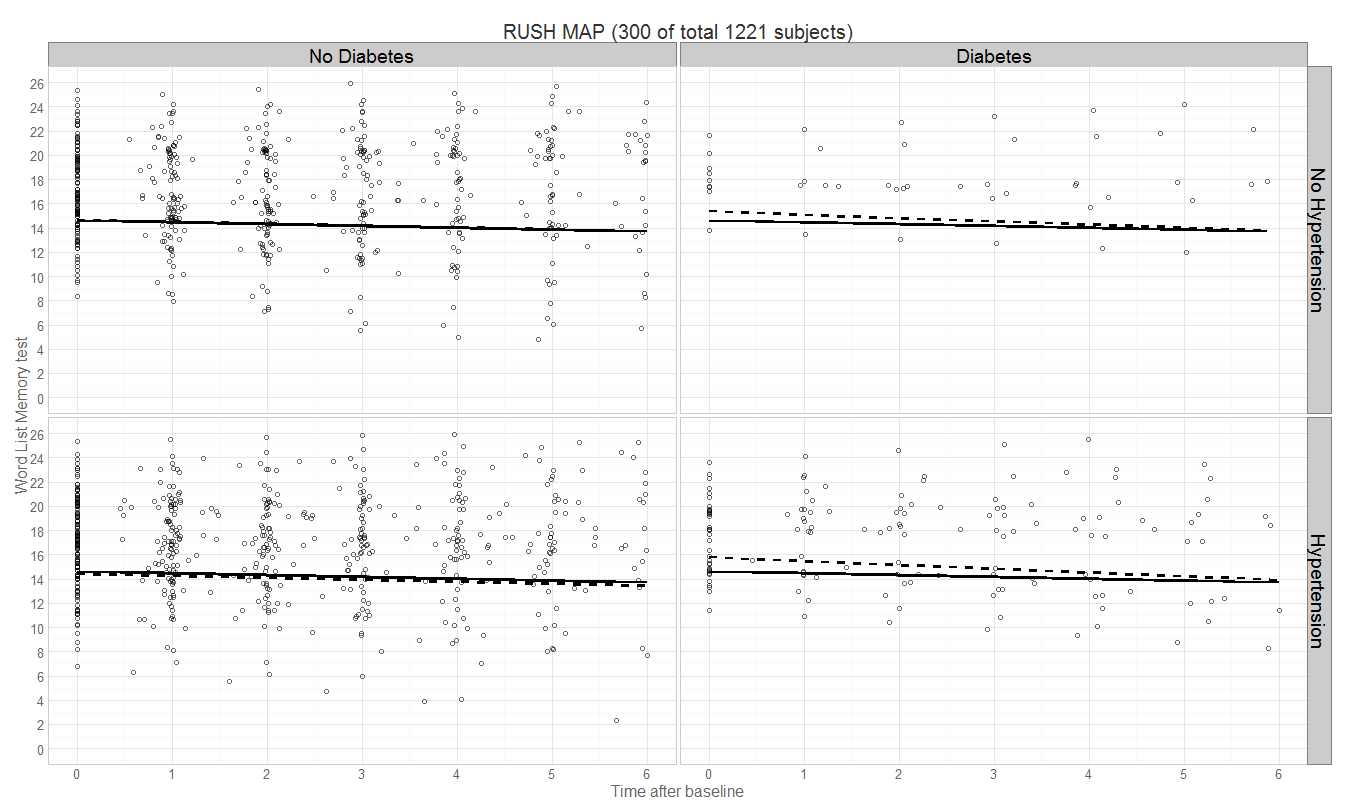
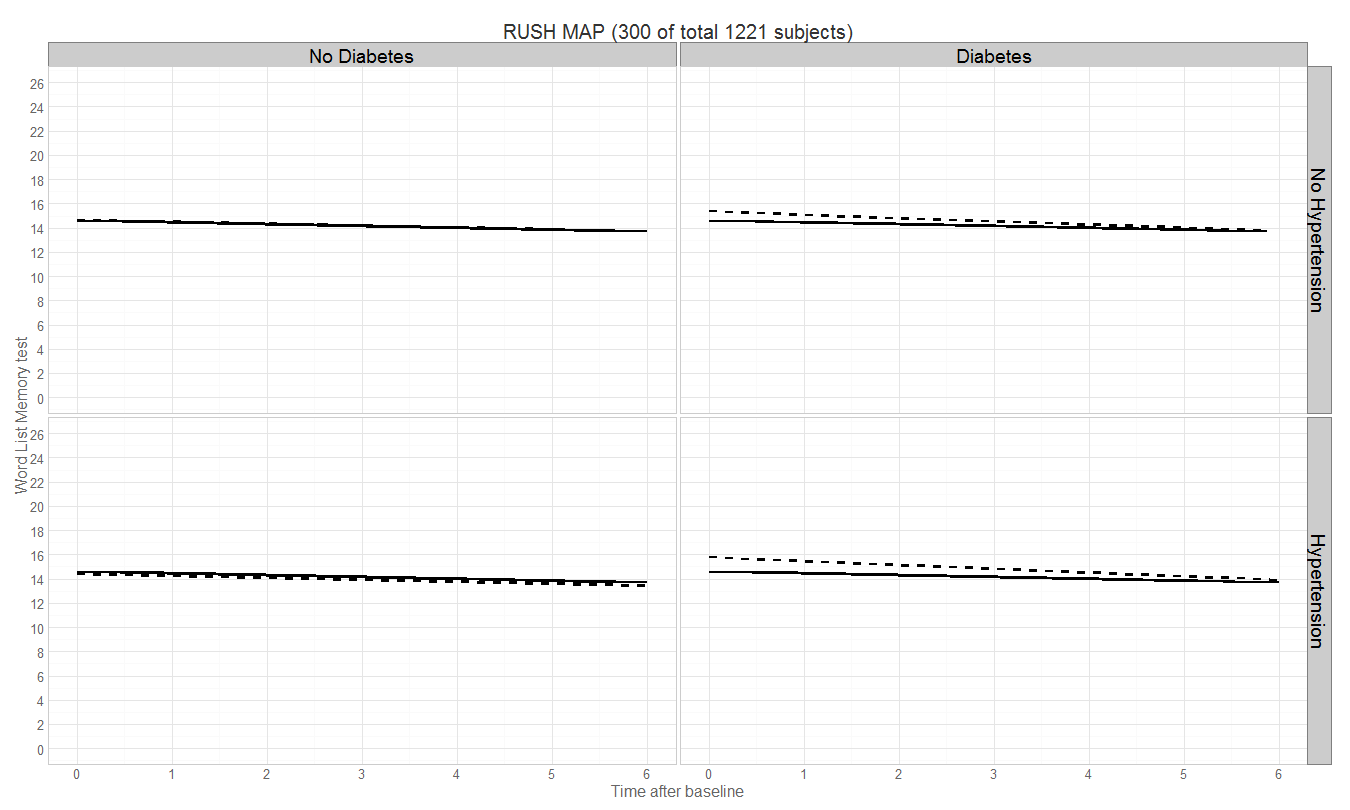
new

diff --git a/BasicGraphs.md b/BasicGraphs.md
@@ -25,9 +25,32 @@
 
 
 
-# Effects & Trajectories
+# Observed Trajectories (sub sample)
+- subsampe of random 300 individuals
+- Semi-transparent circles represent measurement of persons
+- Thin **grey lines** connect dots of one person
+- **Solid line** is the main effect.  
+- **Dashed line** is the effect of HTN, DM, and HTNDM.  
 
-- Thin **grey lines** are individual trajectoried computed from factor scores (slopes and intercepts) estimated by MPlus.  
+## ELSA  
+![](Basic_Graphs_rmd/observedLines_ELSA_300-1.png) 
+
+## OCTO 
+![](Basic_Graphs_rmd/observedLines_OCTO_300-1.png) 
+
+## RUSHc 
+![](Basic_Graphs_rmd/observedLines_RUSHc_300-1.png) 
+
+## RUSHe 
+![](Basic_Graphs_rmd/observedLines_RUSHe_300-1.png) 
+
+## RUSHl 
+![](Basic_Graphs_rmd/observedLines_RUSHl_300-1.png) 
+
+## Observed Trajectories (full sample)
+- full sample
+- Semi-transparent circles represent measurement of persons
+- Thin **grey lines** connect dots of one person
 - **Solid line** is the main effect.  
 - **Dashed line** is the effect of HTN, DM, and HTNDM.  
 
